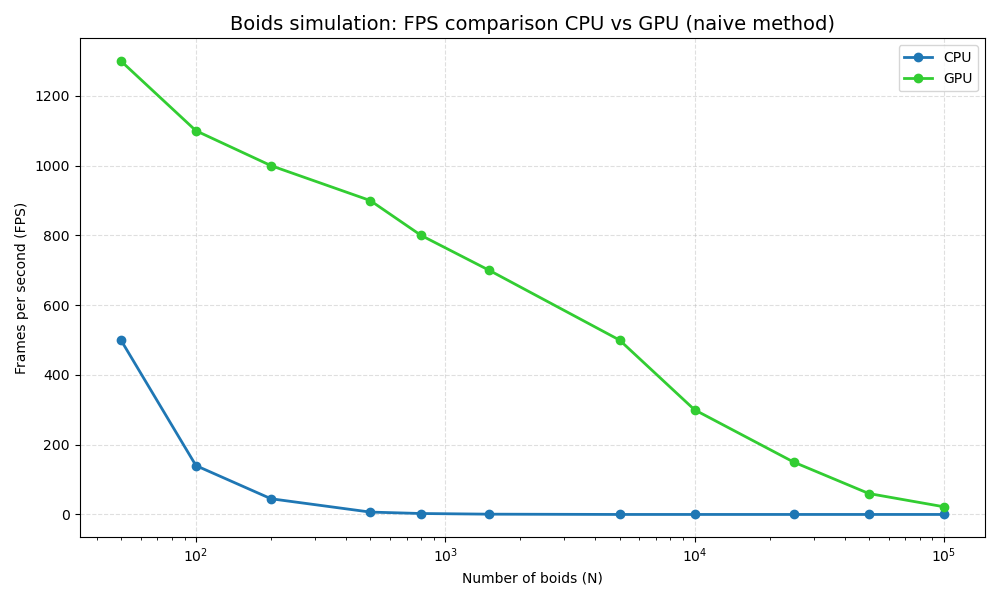
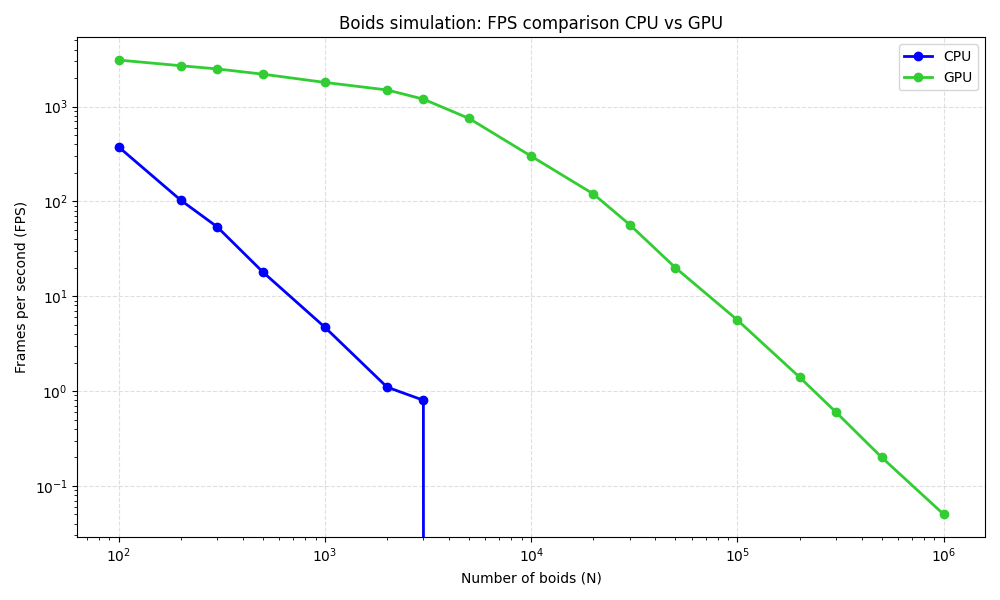
Fix formatting of code links in README.md
Updated measurements + graph

diff --git a/GPU/graph.py b/GPU/graph.py
@@ -1,20 +1,27 @@
 import numpy as np
 import matplotlib.pyplot as plt
 
-# amoount of boids
-N_values = np.array([100, 300, 500, 1000, 2000, 5000, 10000, 20000, 50000])
+# Read data from measurements.csv
+from pathlib import Path
+csv_path = Path(__file__).resolve().parent / 'measurements.csv'
+if not csv_path.exists():
+	raise FileNotFoundError(f"measurements.csv not found at {csv_path}")
+data = np.genfromtxt(csv_path, delimiter=',', skip_header=1)
 
-# fps values
-fps_cpu = np.array([400, 140, 75, 35, 12, 5, 1.6, 0.4, 0])
-fps_gpu = np.array([250, 240, 230, 210, 180, 140, 100, 60, 30]) 
+N_values = data[:, 0]
+fps_cpu = data[:, 1]
+fps_gpu = data[:, 2]
+
 plt.figure(figsize=(10, 6))
 
-plt.plot(N_values, fps_cpu, marker='o', label='CPU (dummy)', linewidth=2)
-plt.plot(N_values, fps_gpu, marker='o', label='GPU (dummy)', linewidth=2)
+plt.plot(N_values, fps_cpu, marker='o', label='CPU', linewidth=2, color='blue')
+plt.plot(N_values, fps_gpu, marker='o', label='GPU', linewidth=2, color='limegreen')
 
 plt.title("Boids simulation: FPS comparison CPU vs GPU")
 plt.xlabel("Number of boids (N)")
 plt.ylabel("Frames per second (FPS)")
+plt.xscale('log')
+plt.yscale('log')
 plt.grid(True, linestyle='--', alpha=0.4)
 plt.legend()
 plt.tight_layout()

diff --git a/README.md b/README.md
@@ -1,7 +1,8 @@
 # Boids: CPU vs GPU
 For labs advanced computer architectures
 
-CPU [Code](https://github.com/beauforr/Boids-Simulation/blob/main/CPU/main.py)
-GPU [Code](https://github.com/beauforr/Boids-Simulation/blob/main/GPU/main.py)
+CPU [code](https://github.com/beauforr/Boids-Simulation/blob/main/CPU/main.py) 
+
+GPU [code](https://github.com/beauforr/Boids-Simulation/blob/main/GPU/main.py)
 
 <img src="https://github.com/beauforr/Boids-Simulation/blob/main/GPU/graph.png" alt="drawing" width="650"/>
